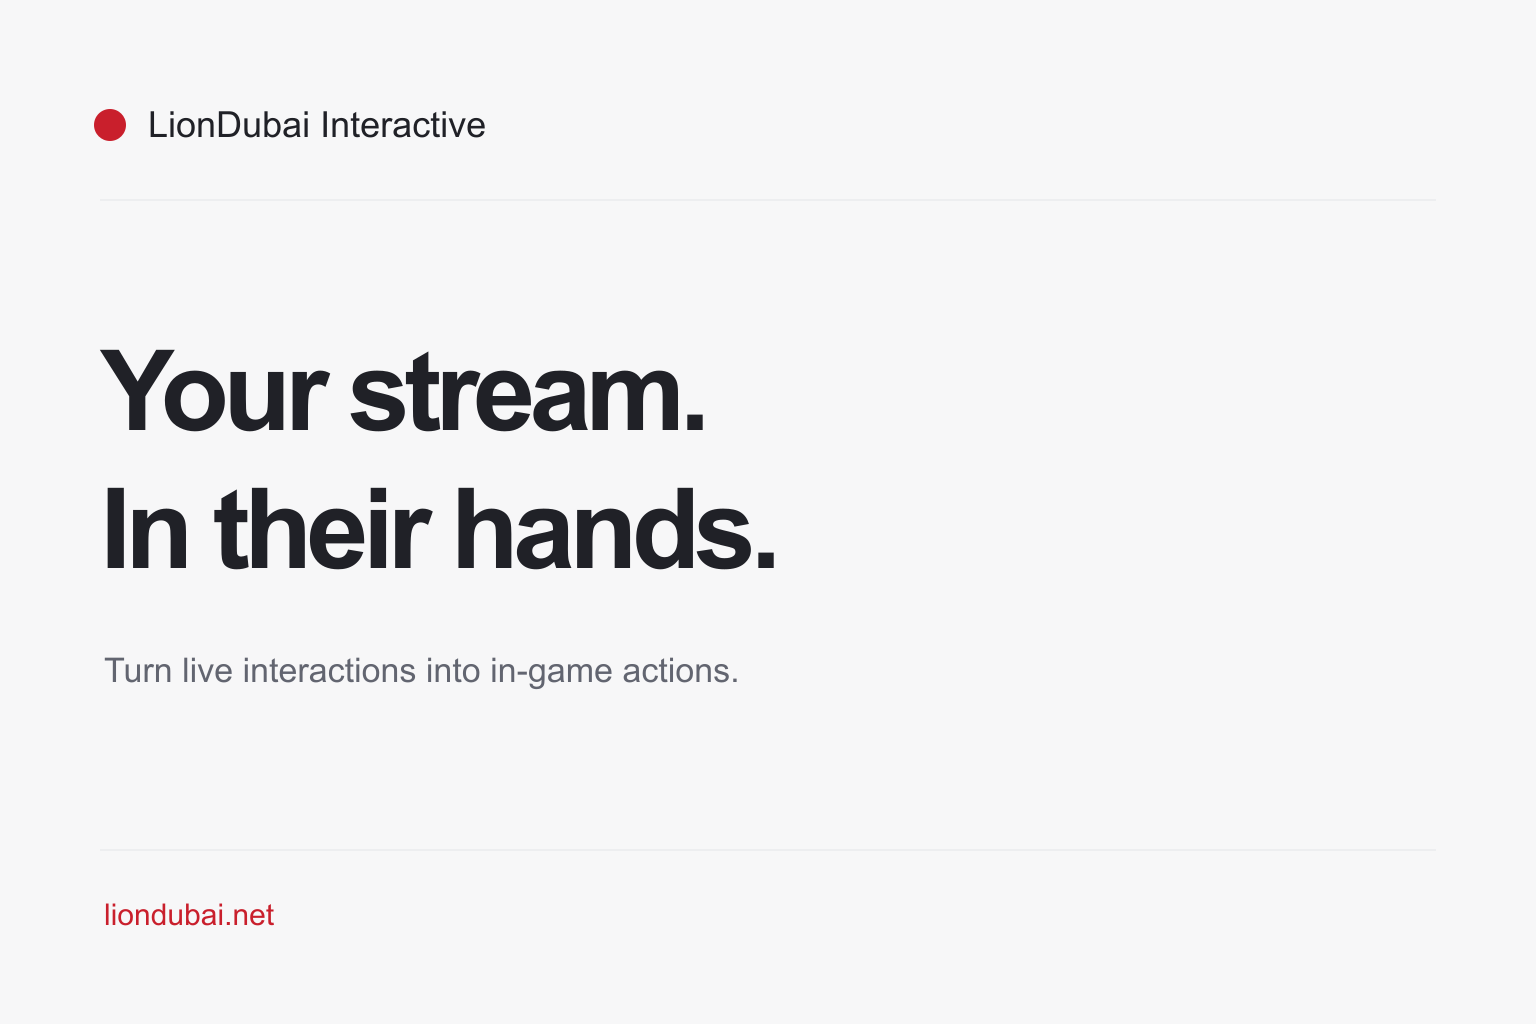
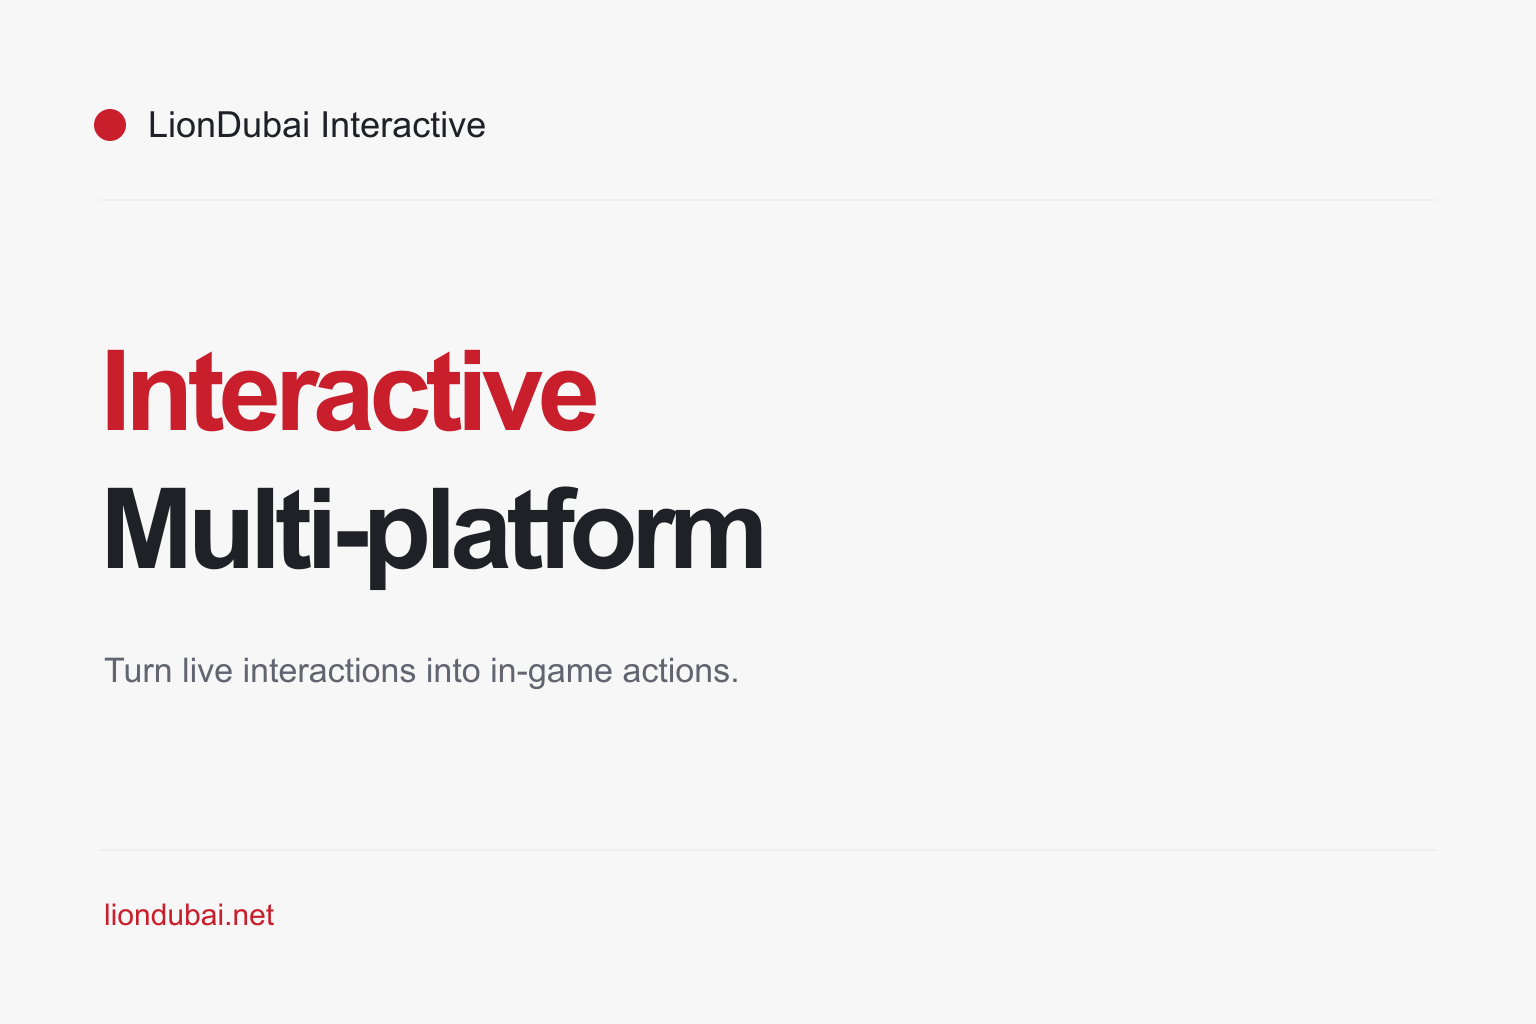
Finalize hero headline and remove focus outlines

Changed region(s): [[0.0625, 0.4688, 0.5, 0.5938], [0.0625, 0.3438, 0.4688, 0.4375]]

diff --git a/app/globals.css b/app/globals.css
@@ -29,9 +29,8 @@ a {
   color: inherit;
   text-underline-offset: 4px;
 }
-a:focus-visible {
-  outline: 2px solid var(--accent);
-  outline-offset: 6px;
+:focus {
+  outline: none;
 }
 h1,
 h2,
@@ -489,7 +488,7 @@ h3 {
     gap: 32px;
   }
   .hero h1 {
-    font-size: clamp(45px, 6.2vw, 65px);
+    font-size: clamp(40px, 5.4vw, 54px);
   }
 }
 @media (max-width: 760px) {
@@ -554,7 +553,7 @@ h3 {
   .header-actions { gap: 10px; font-size: 11px; }
   .header-download { padding-inline: 12px; }
   .hero h1 {
-    font-size: 47px;
+    font-size: clamp(40px, 12vw, 47px);
   }
   .hero-lead {
     font-size: 16px;
@@ -578,10 +577,6 @@ h3 {
 button, input { font: inherit; }
 button { cursor: pointer; }
 button:disabled { cursor: default; opacity: .5; }
-button:focus-visible, summary:focus-visible {
-  outline: 2px solid var(--accent);
-  outline-offset: 4px;
-}
 .button-primary:disabled { background: var(--ink); }
 .header-top-marker { position: absolute; top: 0; width: 1px; height: 1px; pointer-events: none; }
 .site-header { position: sticky; top: 0; z-index: 20; border-bottom: 1px solid transparent; background: var(--paper); transition: border-color 180ms ease; }

diff --git a/app/components/HeroScene.tsx b/app/components/HeroScene.tsx
@@ -38,6 +38,10 @@ export function HeroScene() {
         await import("@google/model-viewer");
         if (disposed) return;
         const scene = document.createElement("model-viewer");
+        // The viewer's keyboard control lives inside its shadow root.
+        const focusStyle = document.createElement("style");
+        focusStyle.textContent = ":focus { outline: none; }";
+        scene.shadowRoot?.append(focusStyle);
         viewer = scene;
         viewer.src = "/models/hero-v4.glb";
         viewer.alt = "Floating laptop, phone and TikTok coins. Drag or use arrow keys to rotate.";

diff --git a/app/page.tsx b/app/page.tsx
@@ -10,9 +10,9 @@ export default function Home() {
       <section className="hero shell">
         <div className="hero-copy">
           <h1>
-            Your stream.
+            <span>Interactive</span>
             <br />
-            <span>In their hands.</span>
+            Multi-platform
           </h1>
           <p className="hero-lead">
             Turn live interactions into in-game actions.

diff --git a/app/site-metadata.ts b/app/site-metadata.ts
@@ -6,7 +6,7 @@ export const socialImages = [
     url: "/og.png",
     width: 1536,
     height: 1024,
-    alt: "LionDubai Interactive — Your stream. In their hands.",
+    alt: "LionDubai Interactive — Interactive — Multi-platform",
   },
 ];
 

diff --git a/README.md b/README.md
@@ -94,7 +94,7 @@ This preserves animated roots and screen materials, reduces repeated geometry an
 keyframes, and quantizes vertices without shipping a decoder. Check all animated
 objects, the loop boundary, the initial camera framing and a rotated view after updates.
 
-The layout supports narrow screens, visible keyboard focus, a skip link and
+The layout supports narrow screens, keyboard controls, a skip link and
 reduced motion. When changing it, check home, download and policy pages
 at mobile and desktop widths. Keep availability and payment information accurate.
 
